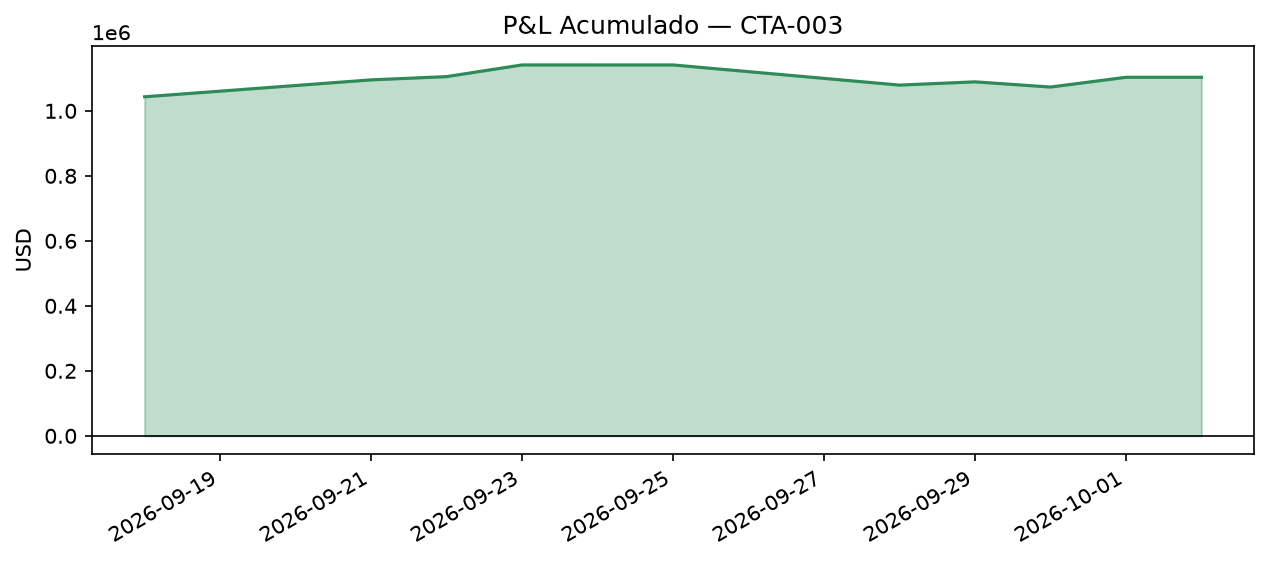
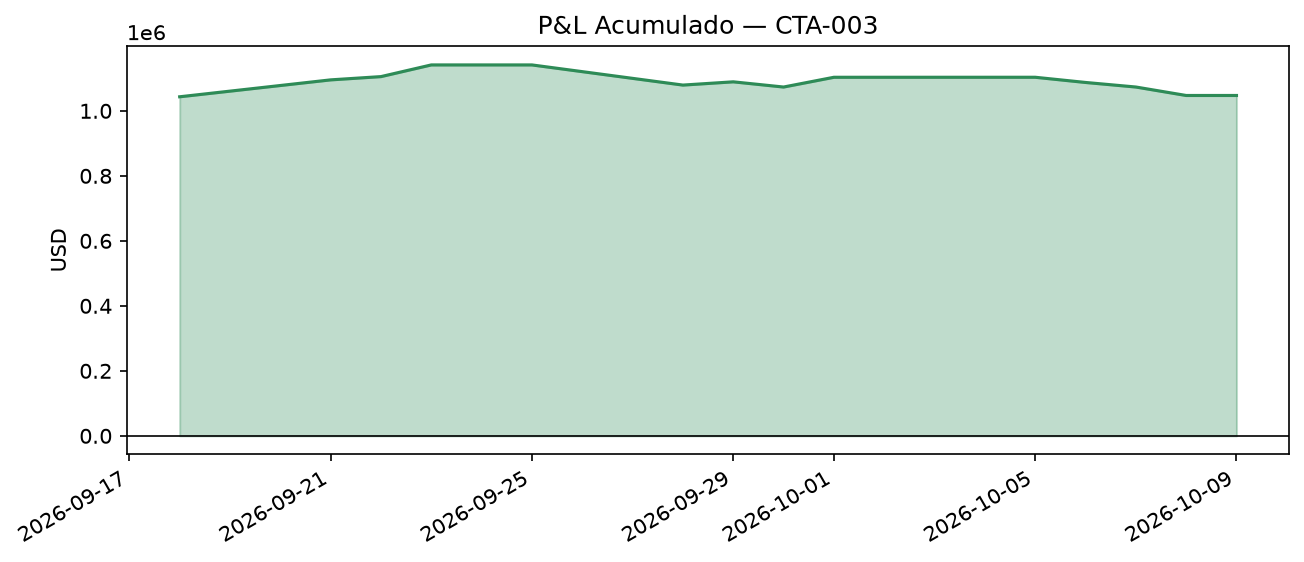
Actualiza reporte visual R3 (2026-10-09)

diff --git a/reportes/reporte_r3_2026-10-09.md b/reportes/reporte_r3_2026-10-09.md
@@ -1,0 +1,43 @@
+# Reporte Visual de Desempeño — CTA-003 (R3, Sprint 8)
+
+**Generado el:** 2026-10-09
+
+## Métricas principales
+
+- Patrimonio actual: **$1057329.44** (capital inicial: $10000.00)
+- Retorno total: **10473.29%**
+- Máximo drawdown: **-8.17%**
+- Semanas operadas: **1**
+- Órdenes ejecutadas en total: **4**
+- Tickers distintos operados: **4**
+- Circuit breaker: 🔴 activo
+
+## Equity Curve
+
+![Equity Curve](equity_curve.png)
+
+## P&L Acumulado
+
+![P&L Acumulado](pnl_acumulado.png)
+
+## Posiciones Abiertas
+
+![Posiciones Abiertas](posiciones_abiertas.png)
+
+| ticker    |   cantidad |   precio_promedio_compra |   precio_actual |   costo_total |   valor_actual |   pnl_no_realizado |   pnl_pct |
+|:----------|-----------:|-------------------------:|----------------:|--------------:|---------------:|-------------------:|----------:|
+| 005930.KS |          4 |                   183.42 |       262000    |        733.68 |      1.048e+06 |        1.04727e+06 | 142742    |
+| NVDA      |          4 |                   213.9  |          230.48 |        855.6  |    921.92      |       66.32        |      7.75 |
+| NEM       |          7 |                   121.76 |          115.55 |        852.32 |    808.85      |      -43.47        |     -5.1  |
+| TSM       |          1 |                   417.72 |          457.99 |        417.72 |    457.99      |       40.27        |      9.64 |
+
+## Operaciones Realizadas
+
+![Operaciones por semana](operaciones_por_semana.png)
+
+|   semana | fecha               | ticker    |   cantidad |   precio_compra |   costo |
+|---------:|:--------------------|:----------|-----------:|----------------:|--------:|
+|        1 | 2026-09-18 00:00:00 | 005930.KS |          4 |          183.42 |  733.68 |
+|        1 | 2026-09-18 00:00:00 | NEM       |          7 |          121.76 |  852.32 |
+|        1 | 2026-09-18 00:00:00 | NVDA      |          4 |          213.9  |  855.6  |
+|        1 | 2026-09-18 00:00:00 | TSM       |          1 |          417.72 |  417.72 |
